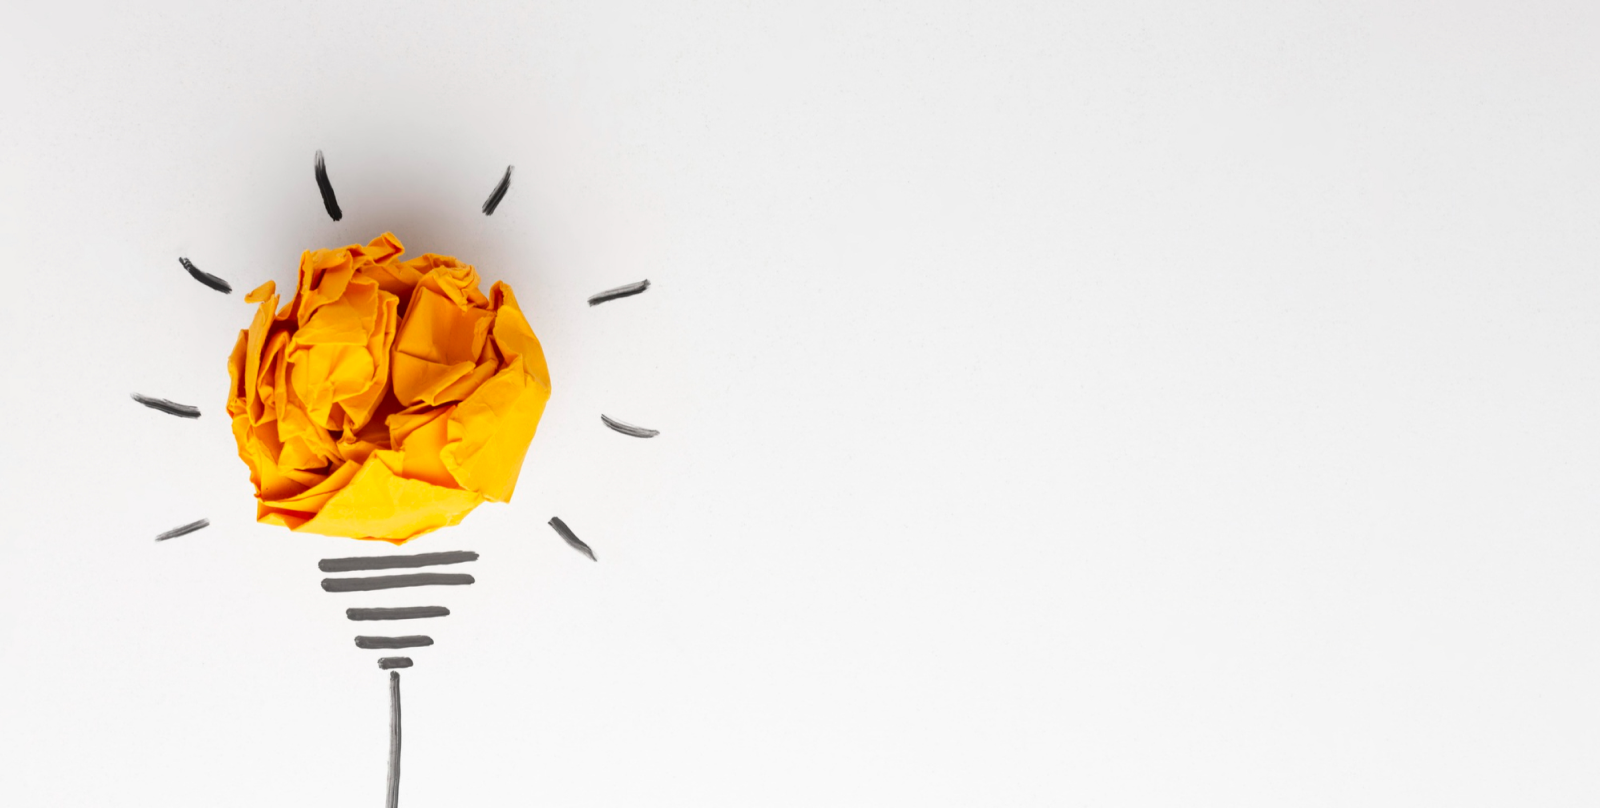
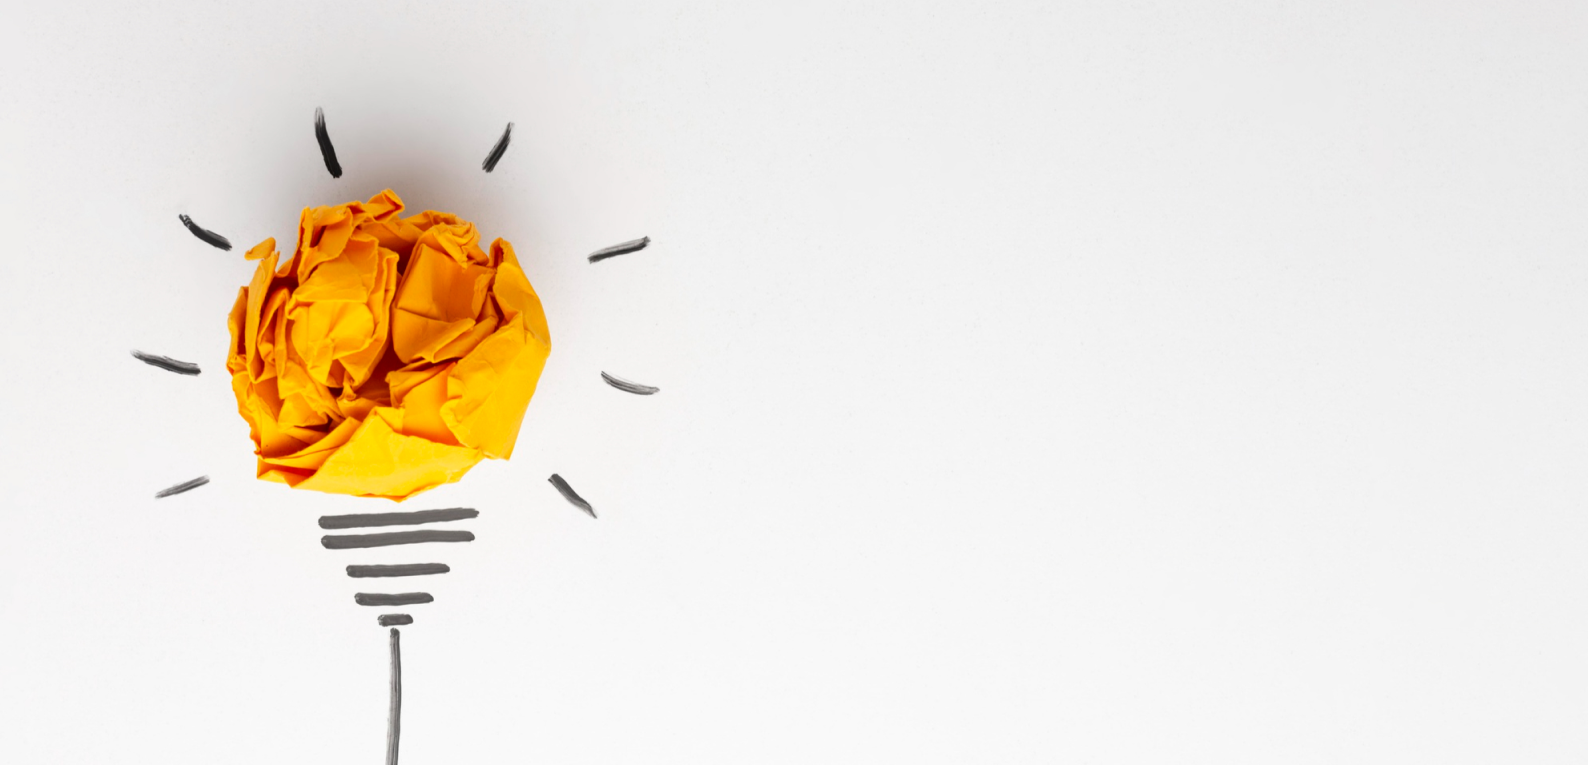
main section part 1

Changed region(s): [[0.0617, 0.1503, 0.432, 1.0], [0.3703, 0.3007, 0.432, 0.3908]]

diff --git a/style.css b/style.css
@@ -7,10 +7,13 @@
 header{
     background-image: url('./images/banner/banner1.png');
     background-repeat: no-repeat;
-    background-size: cover;
-    height: 808px;
+    /* background-size: cover; */
+    height: 790px;
 }
 
+#heading-margin-bottom{
+    margin-bottom: 100px;
+}
 
 .header-title{
     color: rgba(21, 20, 20, 1);
@@ -32,7 +35,8 @@ header{
     display: flex;
     justify-content: flex-end;
     text-align: right;
-    align-items: center; 
+    /* align-items: center;  */
+    /* justify-content: center; */
     margin-right: 230px;
 }
 
@@ -46,3 +50,53 @@ header{
     font-size: 20px;
     padding: 18px 36px;;
 }
+
+        /* main section */
+main {
+    max-width: 1140px;
+    /* margin: 0 auto; */
+    margin-top: 130px;
+}
+
+        /* Section 1 */
+.img-portion{
+    display: flex;
+    align-items: center;
+    margin-bottom: 130px;
+}
+
+ul {
+    list-style: none;
+    color: rgba(68, 67, 67, 1);
+    font-size: 16px;
+    padding-left: 0px;
+  }
+  
+  ul li:before {
+    content: '✓';
+    color: springgreen;
+    font: bold;
+  }
+.img-div1{
+    margin-left: 40px;
+    height: 723px;
+    width: 569px;;
+}
+  .img-div2{
+    margin-left: 100px;
+    /* height: 400px;
+    width: 416px; */
+  }
+
+  .heading-section{
+    color: rgba(21, 20, 20, 1);
+    font-weight: 700px;
+    font-size: 40px;
+    margin-bottom: 24px;
+  }
+
+.img-desc{
+    color: rgba(68, 67, 67, 1);
+    font-weight: 400;
+    font-size: 16px;
+}  

diff --git a/index.html b/index.html
@@ -12,7 +12,7 @@
 <body>
     <header>
             <div class="header-content">
-                <div>
+                <div id="heading-margin-bottom">
                     <h1 class="header-title">All Thinks Are <br> 
                     Possible If You<br>    
                     believe</h1>
@@ -21,5 +21,27 @@
                 </div>
             </div>
     </header>
+
+    <main>
+        <section>
+            <div class="img-portion">
+                <div class="img-div1">
+                    <img src="./images/person.png" alt="">
+                </div>
+                <div class="img-div2">
+                    <h1 class="heading-section">My failures of <br>
+                    previous year</h1>
+                    <p class="img-desc">Contrary to popular belief, Lorem Ipsum is not simply random text. It has roots in a piece of classical Latin literature from 45 BC, making it over 2000 years old. Richard McClintock.</p>
+                    <ul>
+                        <li> Contrary to popular belief, is not simply.</li>
+                        <li> Contrary to popular belief.</li>
+                        <li> Contrary to popular , is not simply.</li>
+                        <li> Contrary to popular belief, is not simply.</li>
+                        <li> Contrary to popular simply.</li>
+                    </ul>
+                </div>
+            </div>
+        </section>
+    </main>
 </body>
 </html>
